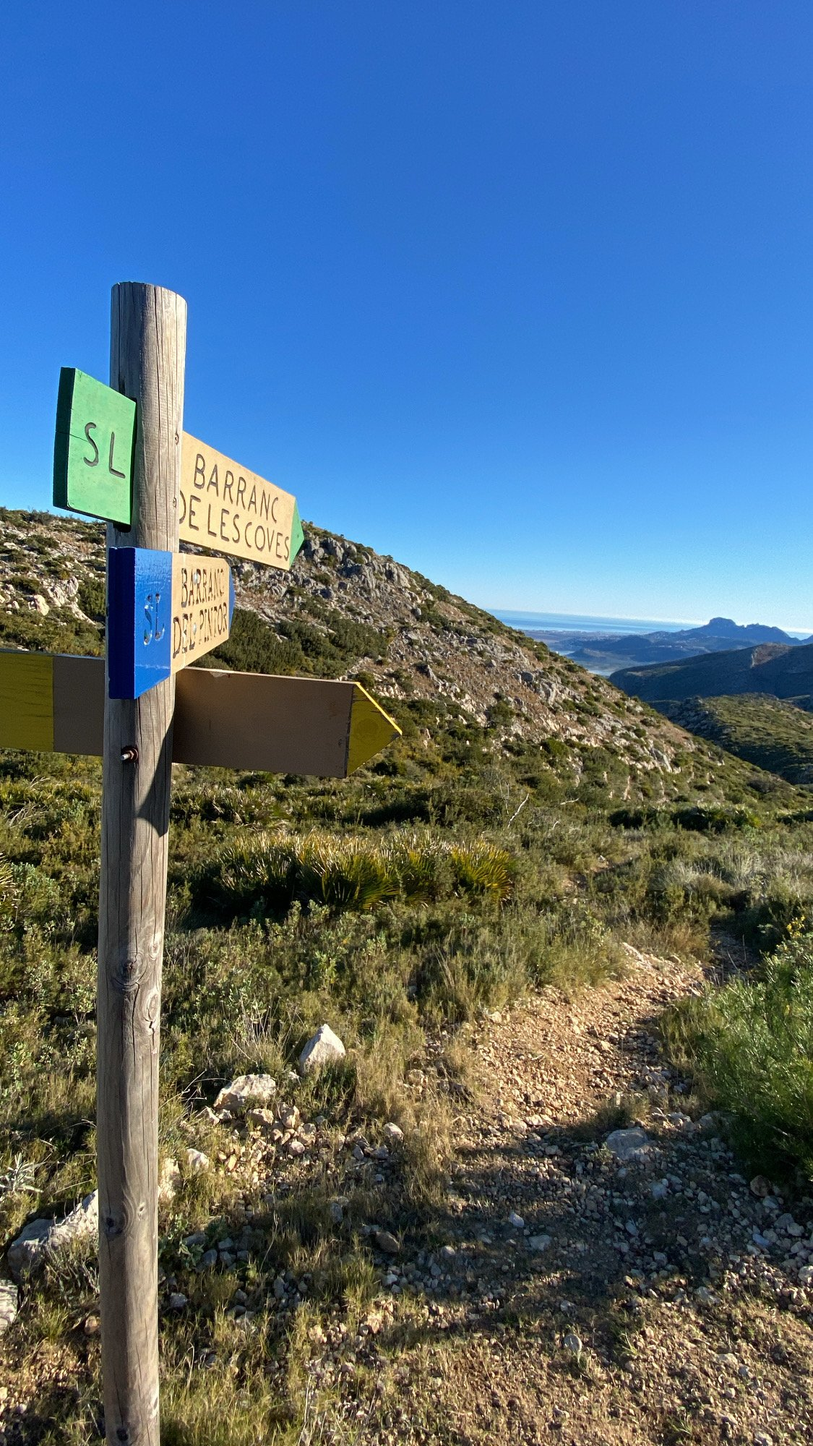
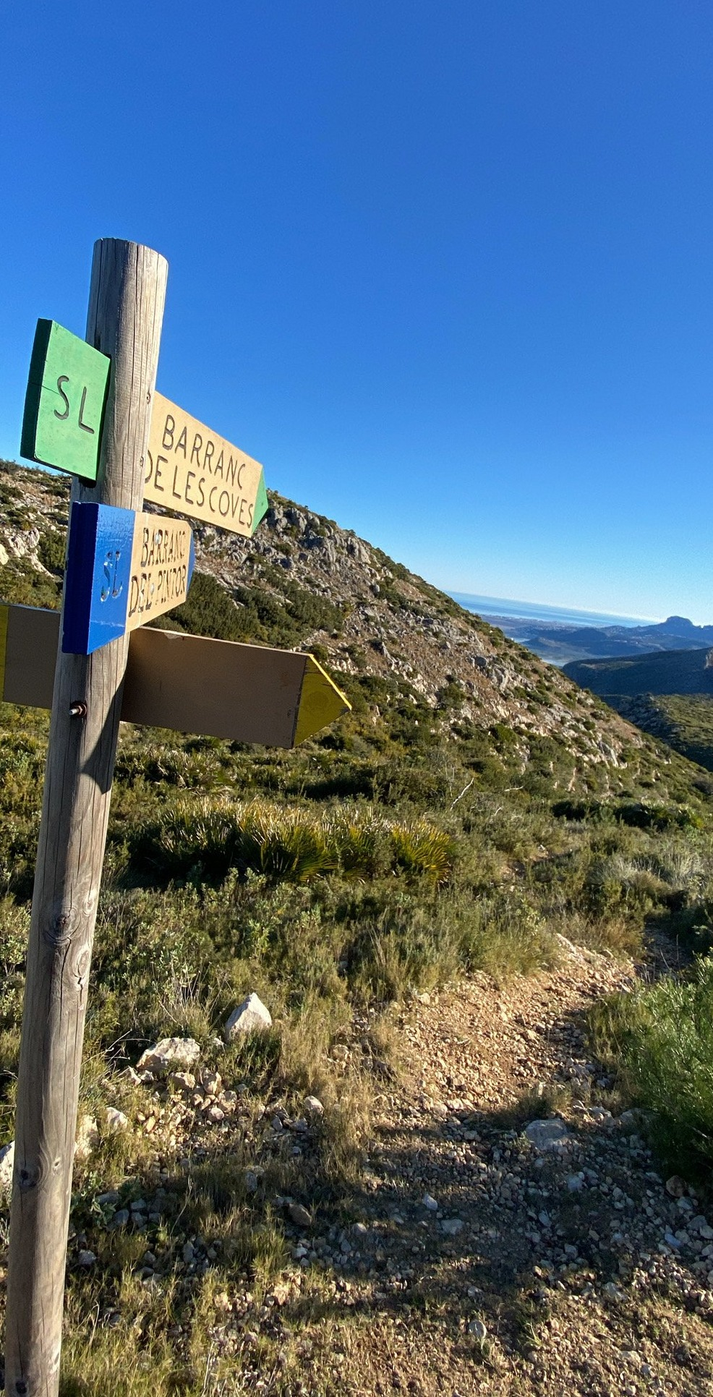
Level horizon and show more mountain in Contacte hero photo
Rotated the signpost photo ~4.2° to correct a tilted sea horizon, and
shifted the crop position down slightly to reveal more of the
mountain/coastline view instead of cutting it off at the bottom.

diff --git a/contacte.html b/contacte.html
@@ -70,7 +70,7 @@
     </button>
   </div>
 </header><section class="subhero">
-  <div class="subhero__bg" style="background-image:url('img/senyal-pego.jpg');background-position:center 30%"></div>
+  <div class="subhero__bg" style="background-image:url('img/senyal-pego.jpg');background-position:center 42%"></div>
   <div class="subhero__scrim"></div>
   <div class="wrap subhero__inner">
     <div class="kicker on-photo">Pego</div>

diff --git a/build/pages.py b/build/pages.py
@@ -499,7 +499,7 @@ def build(g):
     contacte=header("contacte")+subhero(IMG+"senyal-pego.jpg",'Pego',
         "Contacta amb el club","Contacta con el club",
         "Tens dubtes o suggeriments? Escriu-nos.","¿Tienes dudas o sugerencias? Escríbenos.",
-        pos='30%')+f'''
+        pos='42%')+f'''
 <section class="section">
   <div class="wrap narrow">
     <div class="reveal">
